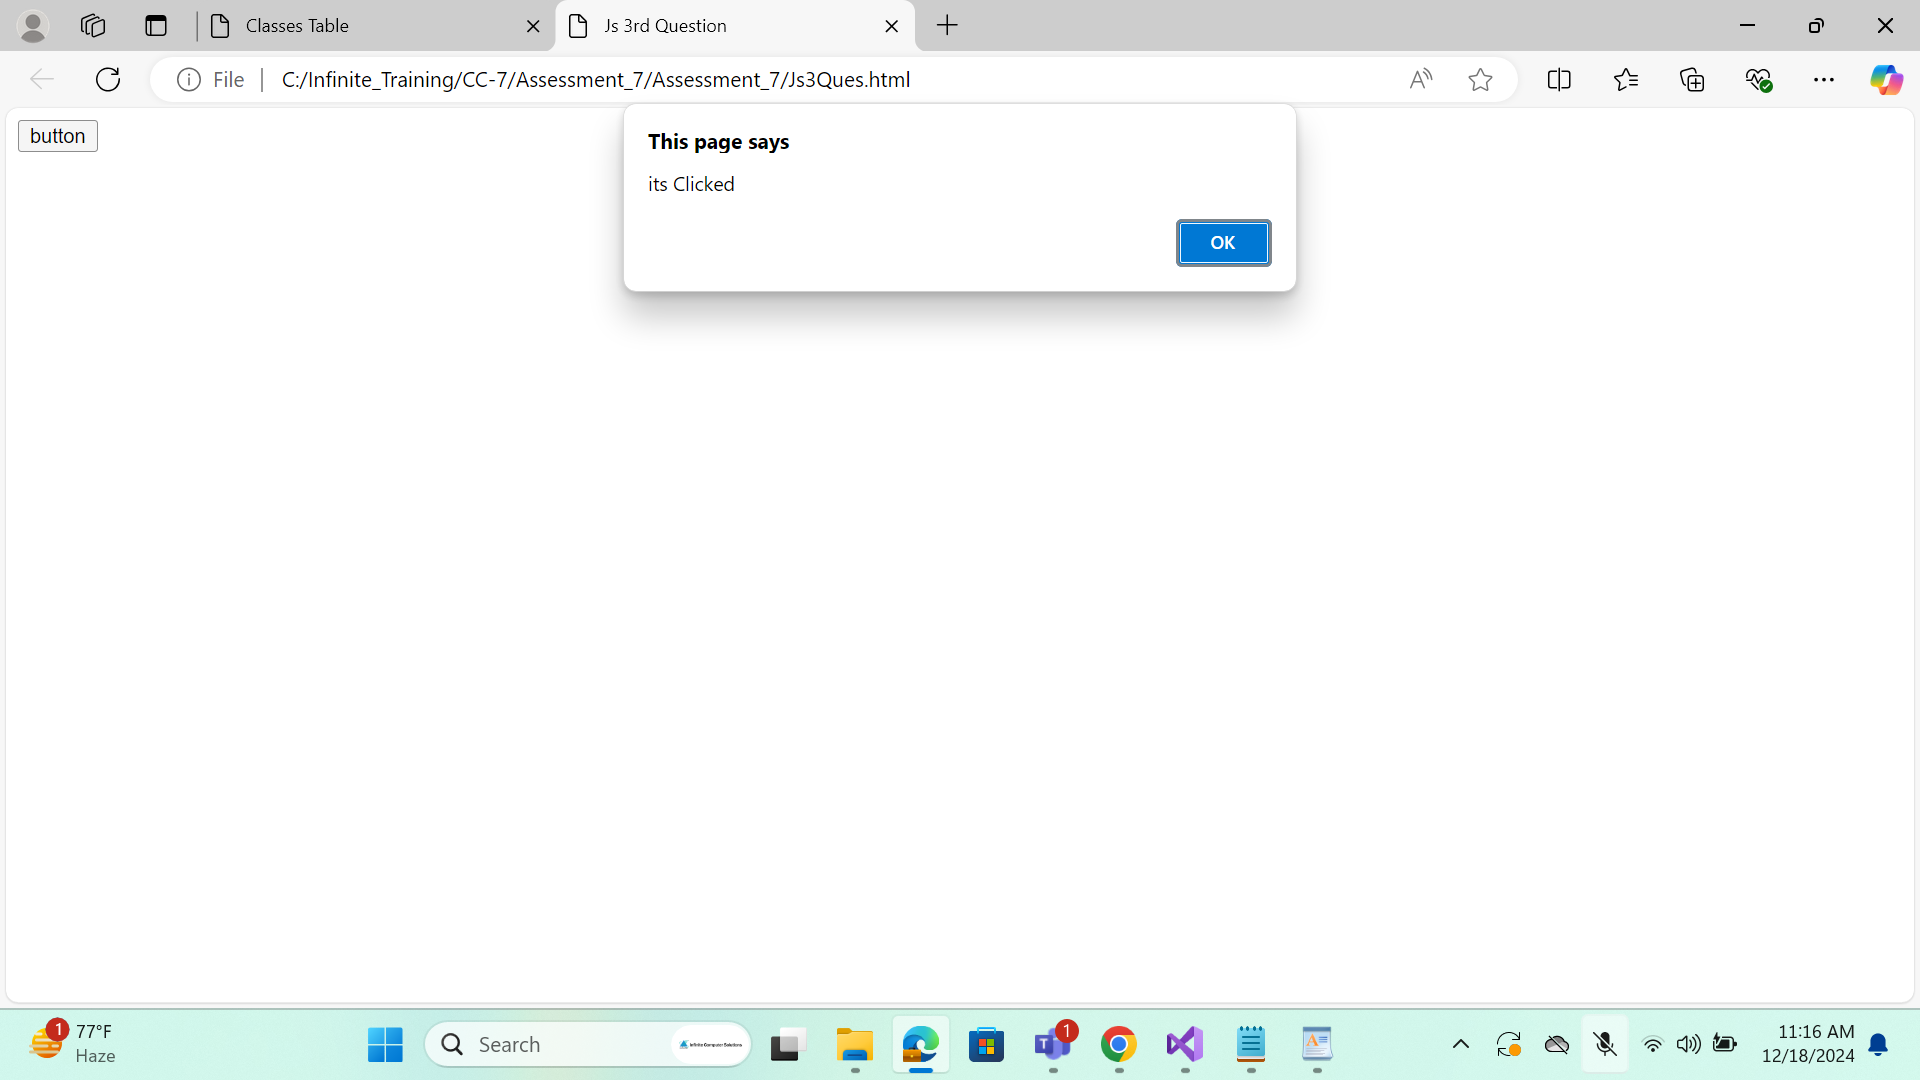
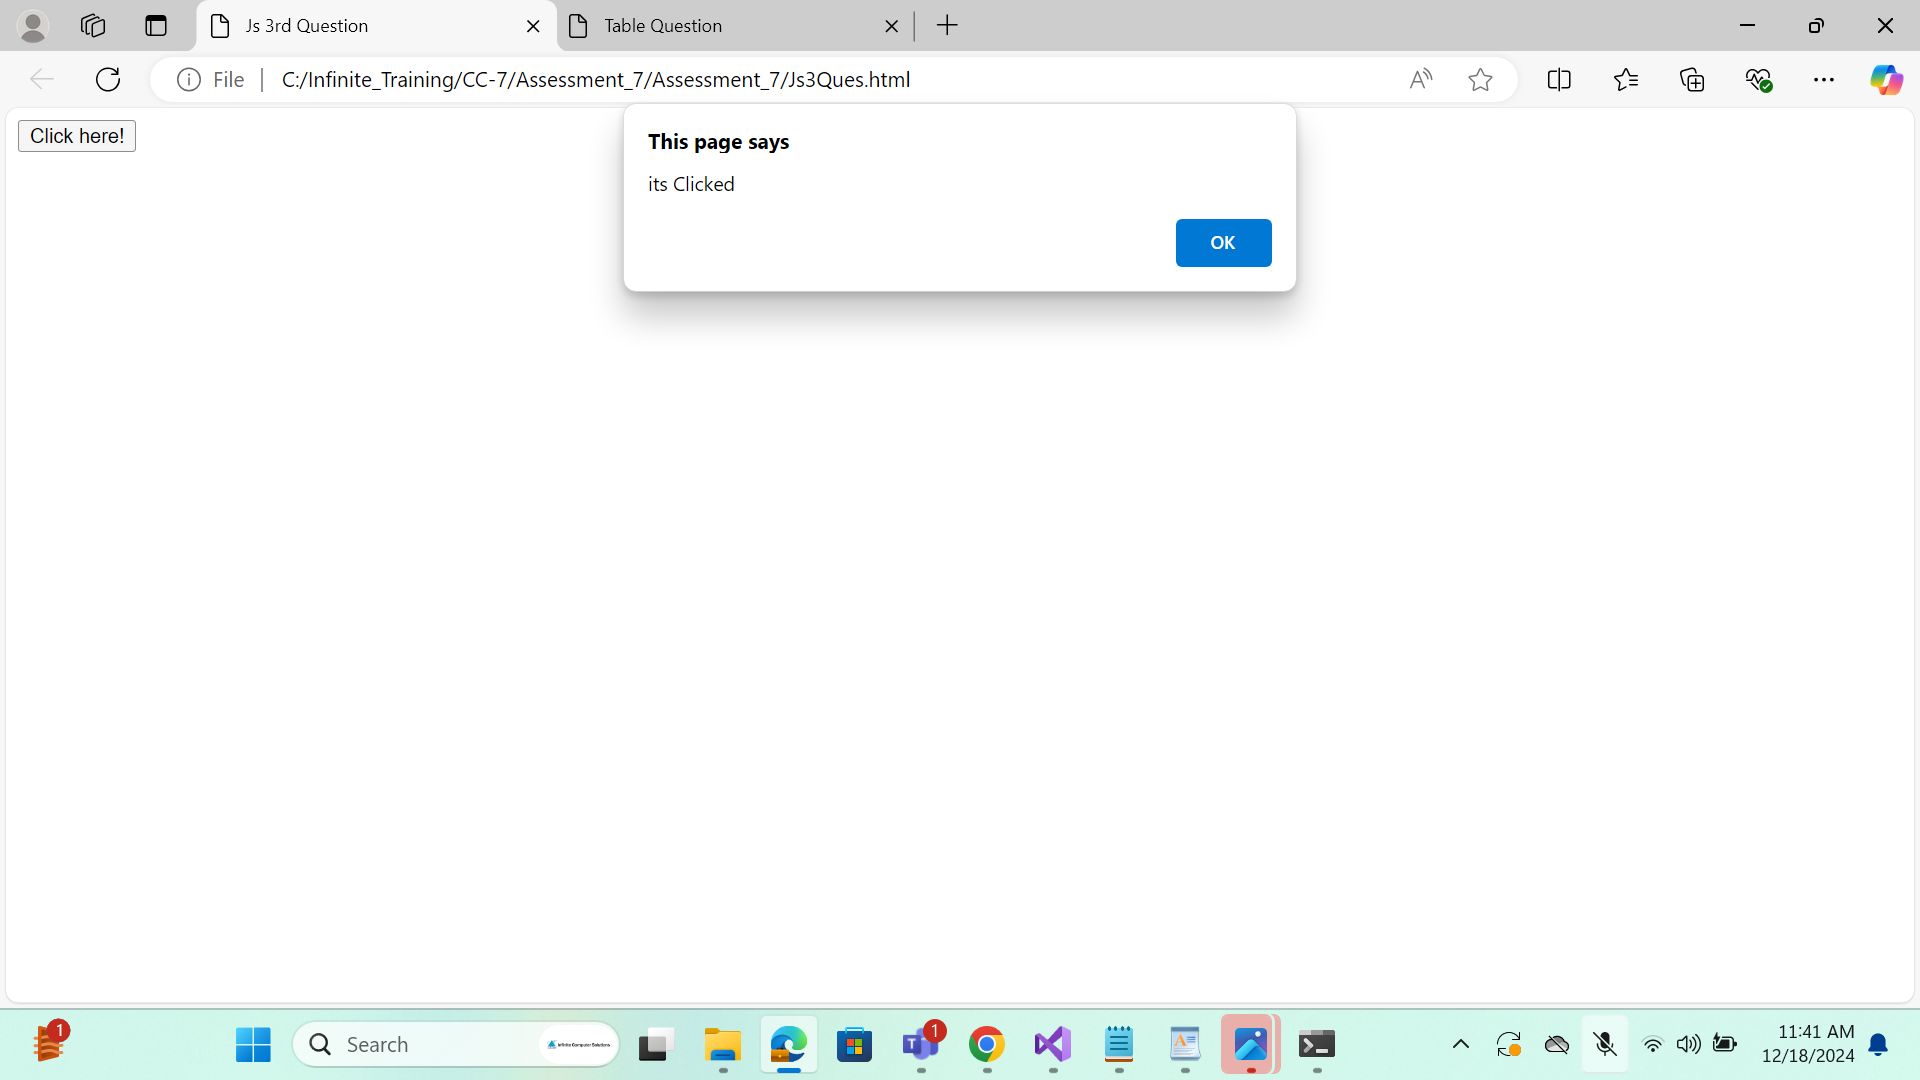
CC-7

diff --git a/CC-7/Assessment_7/Assessment_7/3Queshtml.html b/CC-7/Assessment_7/Assessment_7/3Queshtml.html
@@ -18,14 +18,14 @@
             <td>SQL</td>
         </tr>
         <tr>
-            <td>procedures</td>
+            <td>Javascript</td>
         </tr>
         <tr>
-            <td rowspan="2">English</td>
-            <td>shakespehere</td>
+            <td rowspan="2">Languages</td>
+            <td>Telugu</td>
         </tr>
         <tr>
-            <td>jk_rowling</td>
+            <td>English</td>
         </tr>
         <tr>
             <td colspan="2">Computer Science</td>

diff --git a/CC-7/Assessment_7/Assessment_7/Js3Ques.html b/CC-7/Assessment_7/Assessment_7/Js3Ques.html
@@ -6,7 +6,7 @@
     <title>Js 3rd Question</title>
 </head>
 <body>
-    <button onclick="message()">button</button>
+    <button onclick="message()">Click here!</button>
     <div id="d1"></div>
     <script>
         // ⦁	Write a JavaScript program that creates a button
